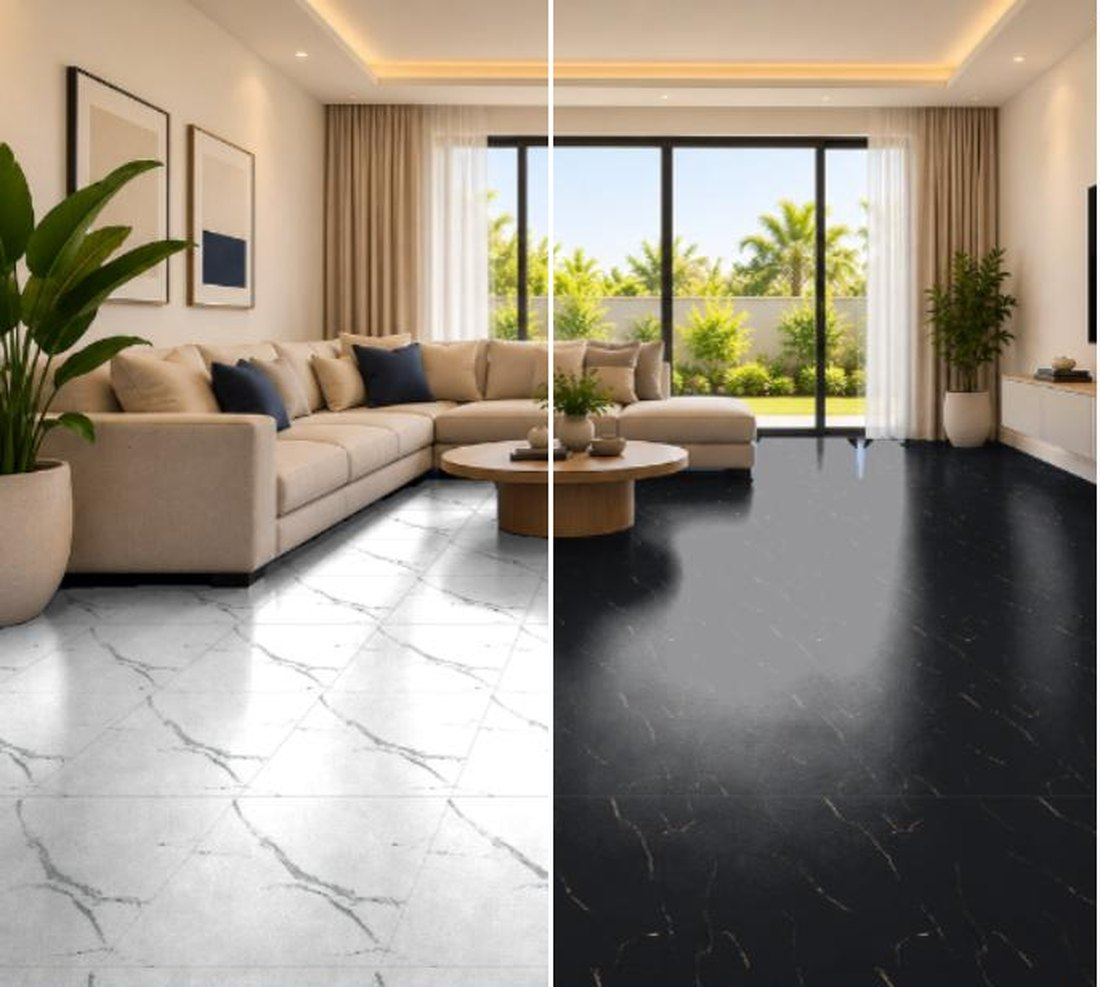
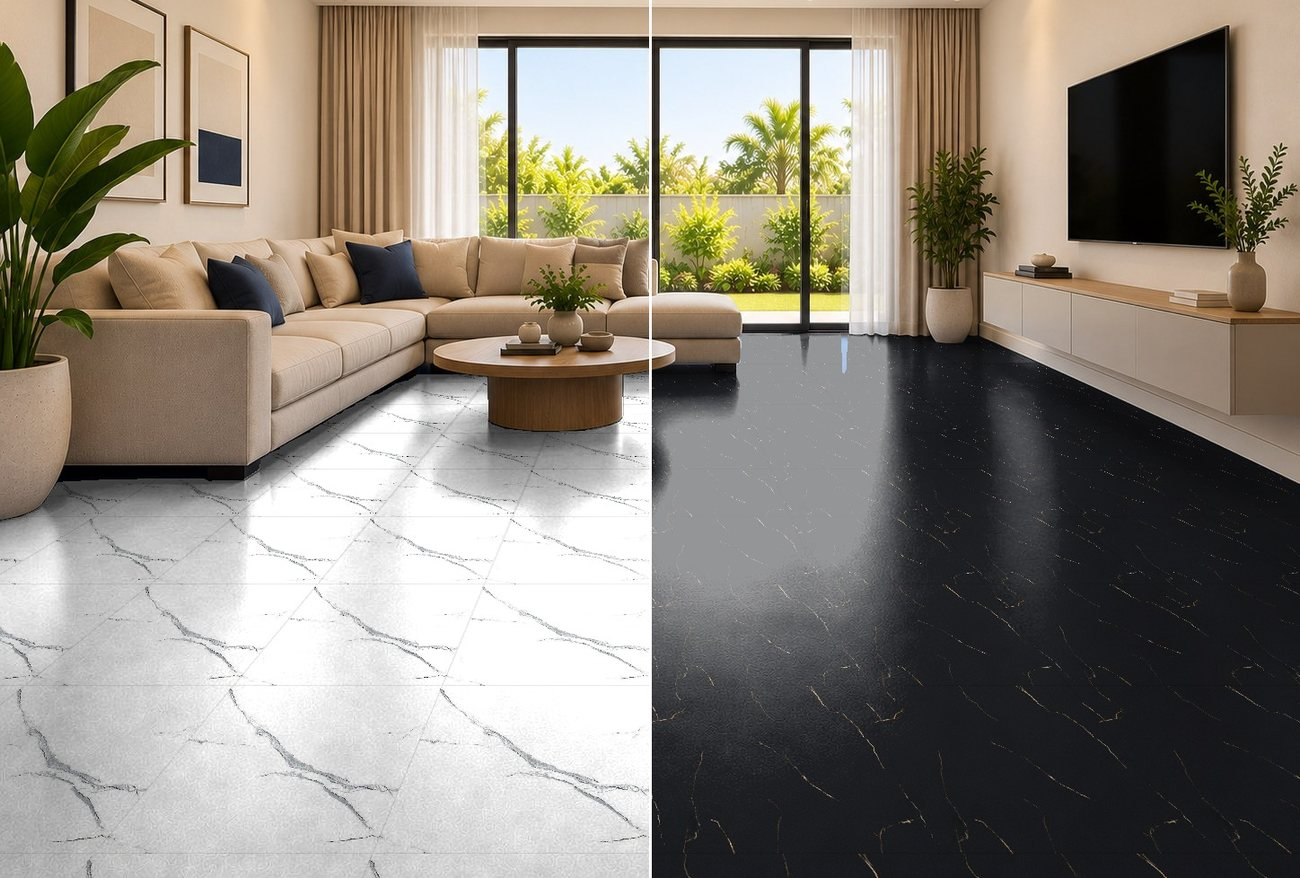
Render the homepage's picture instead of screenshotting it
Mukuka says the picture is blurry, and it was: it had been through four
resamplings. The engine draws the room 1100 across, I drew that into a
660 box, the pane rendered it at its own scale, the frame came back as a
JPEG, and the crop was then stretched from 686 back up to 1100. Every one
of those steps costs detail and the last one invents it.

So the picture is rendered rather than captured now. tools/render.py does
the same arithmetic as tile-visualiser.js, on the photograph at its own
1448 pixels, in one pass: the same projection off the horizon, the same
shading against the floor's own mean, the same grout rule and the same
screen for anything brighter than that mean. The constants are copied
from that file deliberately, and if the two ever disagree the page is
right and this is wrong.

The file is 1300 across for a slot that is 500 wide, so it is a reduction
at every screen size rather than an enlargement at any, which is the
whole point. 184 KB, which is about the weight of the two panels above it.

The top tenth is cropped off: it is a strip on a page and the ceiling is
not what is being sold.

diff --git a/aabrick_webstore/www/index.html b/aabrick_webstore/www/index.html
@@ -134,7 +134,7 @@
             <img src="/assets/aabrick_webstore/images/visualiser-shot.jpg?v={{ aab_version }}"
                  alt="One living room shown with a white marble tile on the
                       left and a black marble tile on the right"
-                 width="1100" height="987" loading="lazy">
+                 width="1300" height="878" loading="lazy">
           </a>
           <figcaption>{{ txt.vis_caption }}</figcaption>
         </figure>

diff --git a/tools/render.py b/tools/render.py
@@ -1,0 +1,162 @@
+"""Lay a tile on a room's floor, the way the page does, but off the page.
+
+The homepage's picture was a screenshot of a screenshot: the canvas is
+drawn at 1100 across, the pane scaled it, the frame was a JPEG, and the
+crop was then stretched back up to 1100. Four resamplings, hence the mush.
+
+This does the same arithmetic as tile-visualiser.js, on the photograph at
+its own 1448 pixels, in one pass with no resampling at all. The constants
+and the order of operations are copied from that file deliberately: if the
+two ever disagree, the page is right and this is wrong.
+"""
+
+import io
+import json
+import math
+import sys
+
+from PIL import Image
+
+S = ("/mnt/c/Users/HCCOMP~1/AppData/Local/Temp/claude/"
+     "C--Users-HC-COMPUTER-STORE-Local-Sites/"
+     "6b0e1eff-4cf1-4667-ac17-775c86b627df/scratchpad/blue/scenes.json")
+APP = ("/home/frappe/frappe-bench/apps/aabrick_webstore/aabrick_webstore"
+       "/public/images/")
+TEX = "/home/frappe/frappe-bench/sites/www.aabrick.com/public/files/tex/"
+
+GROUT_MM = 1
+GROUT_DARK = 0.82
+GROUT_FAINT = 0.5
+SOFT_PX = 8
+HIGHLIGHT = 0.75
+SIDE = 512                      # the texture is squared off to this
+
+
+def inside(poly, x, y):
+    hit = False
+    j = len(poly) - 1
+    for i in range(len(poly)):
+        xi, yi = poly[i]
+        xj, yj = poly[j]
+        if (yi > y) != (yj > y) and x < (xj - xi) * (y - yi) / float(yj - yi) + xi:
+            hit = not hit
+        j = i
+    return hit
+
+
+def render(slug, code, out_path, size_mm=600):
+    scene = {q["id"]: q for q in json.load(io.open(S, encoding="utf-8"))}[slug]
+    base = Image.open(APP + "scene-%s.jpg" % slug).convert("RGB")
+    w, h = base.size
+    src = base.load()
+    poly = scene["floor"]
+    yh = scene["horizon"]
+    cx = scene["cx"]
+    focal = scene["focal"]
+    camH = scene["height"]
+
+    tex = Image.open(TEX + "%s.jpg" % code).convert("RGB")
+    tex = tex.resize((SIDE, SIDE), Image.LANCZOS)
+    td = tex.load()
+    n = SIDE * SIDE
+    ar = ag = ab = 0
+    for ty in range(0, SIDE, 4):
+        for tx in range(0, SIDE, 4):
+            r, g, b = td[tx, ty]
+            ar += r
+            ag += g
+            ab += b
+    k = (SIDE // 4) ** 2
+    avg = (ar / float(k), ag / float(k), ab / float(k))
+
+    Sm = size_mm / 1000.0
+    gm = GROUT_MM / 1000.0
+
+    # the floor, and its own average brightness
+    mask = bytearray(w * h)
+    lum = [0.0] * (w * h)
+    tot = cnt = 0
+    for y in range(h):
+        dy = y - yh
+        if dy <= 2:
+            continue
+        row = y * w
+        for x in range(w):
+            if not inside(poly, x, y):
+                continue
+            mask[row + x] = 1
+            r, g, b = src[x, y]
+            L = (0.299 * r + 0.587 * g + 0.114 * b) / 255.0
+            lum[row + x] = L
+            tot += L
+            cnt += 1
+    ref = tot / cnt if cnt else 0.6
+    print("  %s: %d floor pixels, their mean brightness %.3f"
+          % (slug, cnt, ref))
+
+    out = base.copy()
+    dst = out.load()
+    for y in range(h):
+        dy = y - yh
+        if dy <= 2:
+            continue
+        row = y * w
+        V = focal * camH / dy
+        PX = dy * dy / (focal * camH)
+        for x in range(w):
+            if not mask[row + x]:
+                continue
+            U = (x - cx) * camH / dy
+            fu = U / Sm
+            fv = V / Sm
+            fu -= math.floor(fu)
+            fv -= math.floor(fv)
+            ui = int(fu * SIDE)
+            vi = int(fv * SIDE)
+            r, g, b = td[ui if ui < SIDE else SIDE - 1,
+                         vi if vi < SIDE else SIDE - 1]
+            r, g, b = float(r), float(g), float(b)
+
+            px = Sm * PX
+            if px < SOFT_PX:
+                m = px / SOFT_PX
+                r = r * m + avg[0] * (1 - m)
+                g = g * m + avg[1] * (1 - m)
+                b = b * m + avg[2] * (1 - m)
+            else:
+                gpx = gm * PX
+                band = gpx if gpx > 1 else 1
+                g2 = band / PX
+                if fu < g2 / Sm or fv < g2 / Sm:
+                    kk = gpx / band
+                    if kk < GROUT_FAINT:
+                        kk = GROUT_FAINT
+                    d2 = 1 - (1 - GROUT_DARK) * kk
+                    r *= d2
+                    g *= d2
+                    b *= d2
+
+            f = lum[row + x] / ref
+            f = 0.25 if f < 0.25 else (1.7 if f > 1.7 else f)
+            if f > 1:
+                hi = (f - 1) * HIGHLIGHT
+                if hi > 1:
+                    hi = 1
+                r = r + (255 - r) * hi
+                g = g + (255 - g) * hi
+                b = b + (255 - b) * hi
+            else:
+                r *= f
+                g *= f
+                b *= f
+            dst[x, y] = (int(r if r < 255 else 255),
+                         int(g if g < 255 else 255),
+                         int(b if b < 255 else 255))
+
+    out.save(out_path, "JPEG", quality=92, optimize=True, progressive=True)
+    print("  wrote %s" % out_path)
+    return out
+
+
+if __name__ == "__main__":
+    render(sys.argv[1], sys.argv[2], sys.argv[3])

diff --git a/tools/advert.py b/tools/advert.py
@@ -1,0 +1,45 @@
+"""The homepage's picture, rendered rather than screenshotted.
+
+Two renders of the same living room at the photograph's own 1448 pixels,
+cut down the middle and joined. Nothing is scaled up anywhere: the final
+file is 1300 across, which is a reduction, so it stays sharp on a phone's
+screen as well as a desk's.
+"""
+
+import os
+
+from PIL import Image
+
+D = ("/mnt/c/Users/HCCOMP~1/AppData/Local/Temp/claude/"
+     "C--Users-HC-COMPUTER-STORE-Local-Sites/"
+     "6b0e1eff-4cf1-4667-ac17-775c86b627df/scratchpad/closeup/")
+OUT = ("/home/frappe/frappe-bench/apps/aabrick_webstore/aabrick_webstore"
+       "/public/images/visualiser-shot.jpg")
+WIDE = 1300
+
+a = Image.open(D + "living-light.jpg").convert("RGB")
+b = Image.open(D + "living-dark.jpg").convert("RGB")
+w, h = a.size
+assert b.size == (w, h)
+
+# a little off the top: the picture is for a strip on a page, and the
+# ceiling is not what is being sold
+top = int(h * 0.10)
+a = a.crop((0, top, w, h))
+b = b.crop((0, top, w, h))
+h = a.size[1]
+
+half = w // 2
+out = Image.new("RGB", (w, h))
+out.paste(a.crop((0, 0, half, h)), (0, 0))
+out.paste(b.crop((half, 0, w, h)), (half, 0))
+for y in range(h):
+    for dx in (-1, 0, 1):
+        x = half + dx
+        if 0 <= x < w:
+            out.putpixel((x, y), (255, 255, 255))
+
+out = out.resize((WIDE, int(round(WIDE * h / float(w)))), Image.LANCZOS)
+out.save(OUT, "JPEG", quality=84, optimize=True, progressive=True)
+print("wrote %d x %d, %.0f KB" % (out.width, out.height,
+                                  os.path.getsize(OUT) / 1024.0))

diff --git a/aabrick_webstore/hooks.py b/aabrick_webstore/hooks.py
@@ -268,7 +268,7 @@ override_doctype_class = {
 	"Item Group": "aabrick_webstore.overrides.item_group.AABrickItemGroup",
 }
 
-ASSET_VERSION = "210"
+ASSET_VERSION = "211"
 web_include_js = [
 	"/assets/aabrick_webstore/js/webstore.js?v=" + ASSET_VERSION,
 	"/assets/aabrick_webstore/js/nav.js?v=" + ASSET_VERSION,
